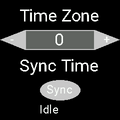
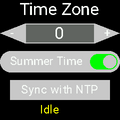
non-volatile settings + summer time

diff --git a/src/tempos.py b/src/tempos.py
@@ -13,55 +13,79 @@ import esp32
 import micropython
 import time
 from config import VERSION
+import json
 
 class Settings():
 
     def __init__(self,bright=0.3,ontime=20,clicking=False,buzzing=True):
-        self._bright = bright
-        self._ontime = ontime
-        self._timezone = 0
-        self._clicking = clicking
-        self._buzzing = buzzing
+        self._change = False
+        try:
+            self._set = json.loads(open("settings.json").read())
+        except:
+            self._set = {"bright":bright,"ontime":ontime,"timezone":0,"clicking":clicking,"buzzing":buzzing,"dst":False}
+            self.save()
+
+    def save(self):
+        if self._change:
+            with open("settings.json","w") as f:
+                f.write(json.dumps(self._set))
+                f.close()
+            self._change = False
 
     @property
     def brightness(self):
-        return self._bright
+        return self._set["bright"]
 
     @brightness.setter
     def brightness(self,br):
-        self._bright = 0.1 if br < 0.1 else 1.0 if br > 1.0 else br
+        self._set["bright"] = 0.1 if br < 0.1 else 1.0 if br > 1.0 else br
+        self._change = True
 
     @property
     def ontime(self):
-        return self._ontime
+        return self._set["ontime"]
+
 
     @ontime.setter
     def ontime(self,br):
-        self._ontime = 5 if br <5 else 300 if br > 300 else br
+        self._set["ontime"] = 5 if br <5 else 300 if br > 300 else br
+        self._change = True
 
     @property
     def timezone(self):
-        return self._timezone
+        return self._set["timezone"]
 
     @timezone.setter
     def timezone(self,br):
-        self._timezone =  br
+        self._set["timezone"] =  br
+        self._change = True
 
     @property
     def clicking(self):
-        return self._clicking
+        return self._set["clicking"]
 
     @clicking.setter
     def clicking(self,v):
-        self._clicking =  v
+        self._set["clicking"] =  v
+        self._change = True
 
     @property
     def buzzing(self):
-        return self._buzzing
+        return self._set["buzzing"]
 
     @buzzing.setter
     def buzzing(self,v):
-        self._buzzing =  v
+        self._set["buzzing"] =  v
+        self._change = True
+
+    @property
+    def dst(self):
+        return self._set["dst"]
+
+    @dst.setter
+    def dst(self,v):
+        self._set["dst"] =  v
+        self._change = True
     
 
     
@@ -92,7 +116,7 @@ rtc = RTC()          # local clock
 def set_local_time():
     dt = prtc.datetime() 
     epoch_secs = time.mktime((dt[0],dt[1],dt[2],dt[4],dt[5],dt[6],dt[3],0))
-    tm = time.gmtime(epoch_secs + settings.timezone*3600)
+    tm = time.gmtime(epoch_secs + settings.timezone*3600 + (3600 if settings.dst else 0) )
     rtc.datetime((tm[0], tm[1], tm[2], tm[6], tm[3], tm[4], tm[5], 0))
 
 set_local_time()

diff --git a/src/utils/timeman.py b/src/utils/timeman.py
@@ -5,21 +5,27 @@ from fonts import roboto24,roboto36
 from button import Button,RoundButton,ButtonMan
 from wifi import do_connected_action
 import ntptime
-from widgets import ValueDisplay, Label
+from widgets import ValueDisplay, Label,SwitchPanel
+
 
 # time zone adjustment
+dst = False
 
 def zadjust(incr):
     settings.timezone += incr
     return settings.timezone
 
+def changedst(v):
+    settings.dst = v
+
 buttons = ButtonMan()
-zone = ValueDisplay("Time Zone",15,False,1,zadjust,buttons)
+zone = ValueDisplay("Time Zone",2,False,1,zadjust,buttons)
+dst = SwitchPanel("Summer Time",102,settings.dst,changedst,buttons)
 
 # time synchronisation
 
-status = Label(20,200,160,40,roboto24,WHITE)
-progress = Label(200,200,40,40,roboto24,WHITE)
+status = Label(20,200,160,40,roboto24,YELLOW)
+progress = Label(200,200,40,40,roboto24,YELLOW)
 
 def dosync():
     ntptime.settime()
@@ -30,20 +36,18 @@ def button_action():
     do_connected_action(dosync,status,progress)
 
 
-start = RoundButton("Sync",80,160,80,40,theme=ValueDisplay.theme)
+start = Button("Sync with NTP",20,160,200,40,theme=ValueDisplay.theme)
 buttons.add(start)
 start.callback(button_action)
 
 def app_init():
     zone.drawInit(settings.timezone)
-    g.setfont(roboto36)
-    g.setfontalign(0,-1)
-    g.text("Sync Time",120,115,WHITE)
     status.update('Idle',False)
     progress.update('',False)
     buttons.start()
     
 def app_end():
+    settings.save()
     buttons.stop()
     g.fill(BLACK)
     set_local_time()

diff --git a/src/apps/weather.py b/src/apps/weather.py
@@ -1,4 +1,4 @@
-from tempos import g
+from tempos import g,settings
 from graphics import WHITE,BLACK,YELLOW
 from fonts import roboto18,roboto24,roboto36
 from button import Button,ButtonMan
@@ -35,7 +35,7 @@ def deg_to_dir(d):
     return dirs[dr] 
 
 def secs_to_time(secs,zone):
-    lsecs = secs + zone*3600 - 946684800
+    lsecs = secs + zone*3600 + (3600 if settings.dst else 0) - 946684800
     loctime =   time.gmtime(lsecs)
     return '{:2d}:{:02}'.format(loctime[3],loctime[4])
 

diff --git a/src/utils/buzzcon.py b/src/utils/buzzcon.py
@@ -20,5 +20,6 @@ def app_init():
     buttons.start()
     
 def app_end():
+    settings.save()
     buttons.stop()
     g.fill(BLACK)

diff --git a/src/utils/display.py b/src/utils/display.py
@@ -22,5 +22,6 @@ def app_init():
     buttons.start()
     
 def app_end():
+    settings.save()
     buttons.stop()
     g.fill(BLACK)
